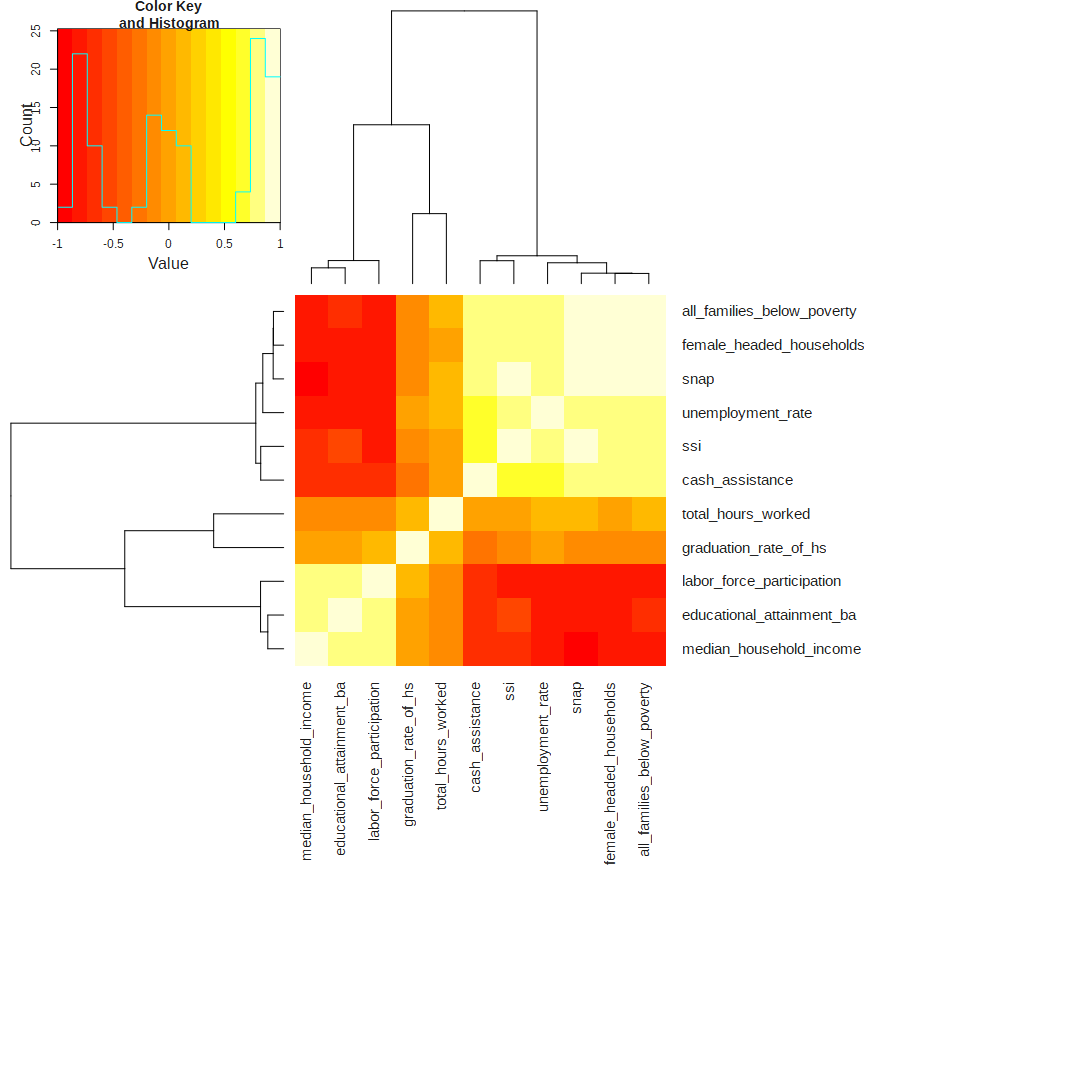
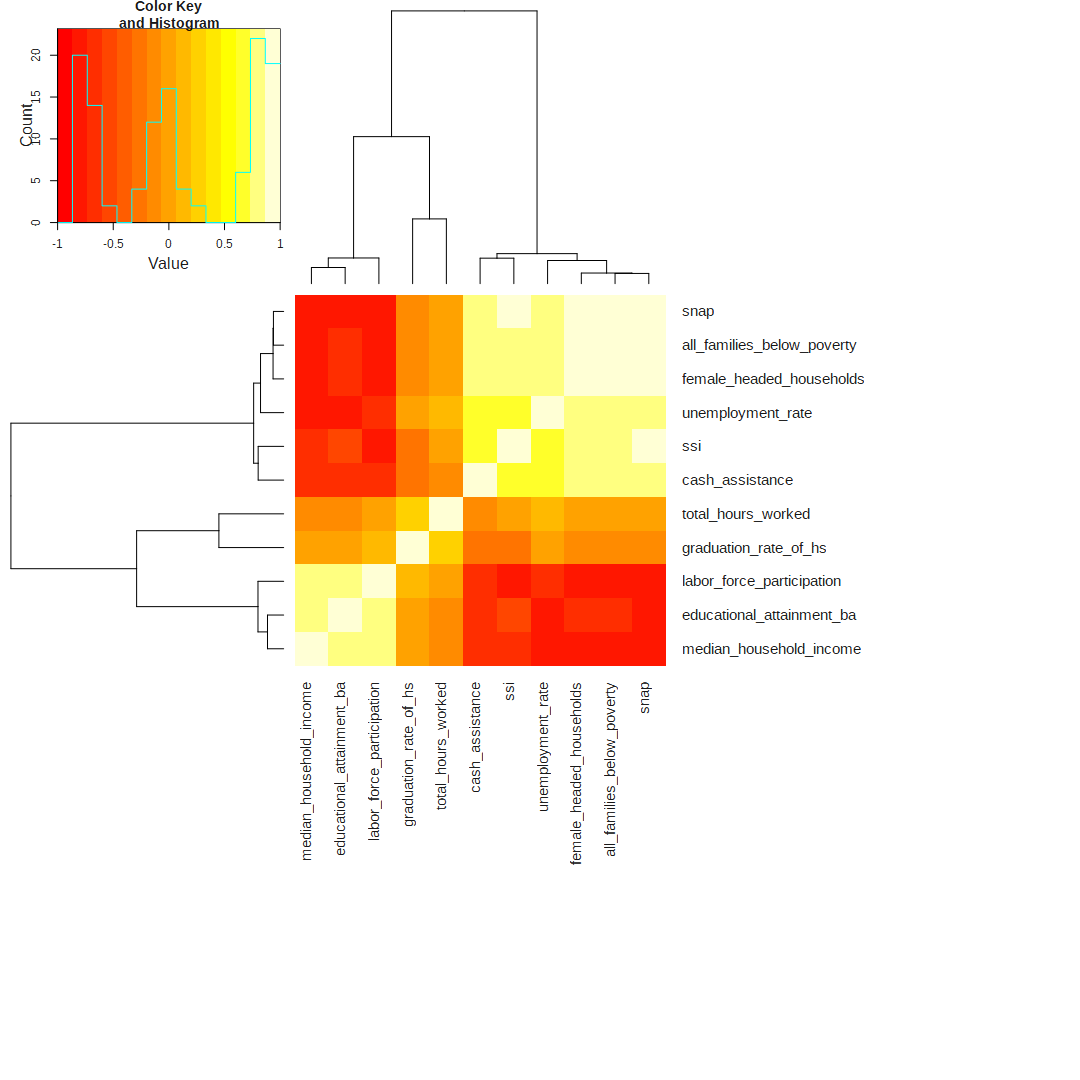
Started looking at industry impact

diff --git a/README.md b/README.md
@@ -210,18 +210,23 @@ library(gplots)
 library(bpca)
 library(RColorBrewer)
 
-dat_short = dat %>% select(intern_status, total_hours_worked,
-                           median_household_income,
-                           labor_force_participation, unemployment_rate,
-                           ssi, cash_assistance, snap,
-                           all_families_below_poverty,
-                           educational_attainment_ba, female_headed_households,
-                           graduation_rate_of_hs)
-
+# create short version of data with a subset of the fields and not including
+# the current (2014-2015) interns who haven't yet finished
+dat_short = dat %>%
+    filter(academic_year != '2014 - 2015' & industry != "") %>%
+    select(intern_status, industry, total_hours_worked,
+           median_household_income, labor_force_participation,
+           unemployment_rate, ssi, cash_assistance, snap,
+           all_families_below_poverty, educational_attainment_ba,
+           female_headed_households, graduation_rate_of_hs) %>%
+    mutate(intern_status=ifelse(intern_status %in% 
+                                c("Alumni", "Summer Program Alumni"),
+                                "Alumni", "Terminated"))
+    
 dat_short_complete = dat_short[complete.cases(dat_short),]
 
 # Heatmap
-heatmap.2(cor(as.matrix(dat_short_complete %>% select(-intern_status))),
+heatmap.2(cor(as.matrix(dat_short_complete %>% select(-intern_status, -industry))),
           margins=c(26, 26), trace='none')
 ```
 
@@ -236,7 +241,7 @@ names(location_colors) = dat$location
 location_colors_complete = location_colors[complete.cases(dat_short)]
 
 # biplot
-plot(bpca(dat_short_complete %>% select(-intern_status),
+plot(bpca(dat_short_complete %>% select(-intern_status, -industry),
           var.color=location_colors_complete, scale=TRUE))
 ```
 
@@ -264,14 +269,17 @@ dat_scaled$all_families_below_poverty = rescale(dat_scaled$all_families_below_po
 # numeric fields only
 #mat = dat_short_complete %>% select(-intern_status)
 #mat_scaled = scale(dat_short_complete)
-heatmap.2(as.matrix(dat_scaled %>% select(-intern_status)),
-          margins=c(26, 26), trace='none',
-          RowSideColors=location_colors_complete)
+heatmap.2(as.matrix(dat_scaled %>% select(-intern_status, -industry)),
+          margins=c(26, 26), trace='none')
 ```
 
 ![](README_files/figure-markdown_github/student_vis-1.png)
 
-#### Intern status
+``` r
+          #RowSideColors=location_colors_complete)
+```
+
+#### Median household income vs. Hours worked
 
 ``` r
 library(ggplot2)
@@ -280,4 +288,21 @@ ggplot(dat_short_complete, aes(total_hours_worked, median_household_income,
     geom_point(aes(color=intern_status))
 ```
 
-![](README_files/figure-markdown_github/inter_status-1.png)
+![](README_files/figure-markdown_github/household_income_vs_intern_status-1.png)
+
+#### Intern status vs. Industry
+
+``` r
+dat_short_complete %>% group_by(industry) %>% ggplot(aes(intern_status)) +
+    theme(axis.text.x = element_text(angle = 90, hjust = 1)) +
+    geom_bar() +
+    facet_wrap(~industry)
+```
+
+![](README_files/figure-markdown_github/intern_status_vs_industry-1.png)
+
+``` r
+#ggplot(dat_short_complete, aes(intern_status, total_hours_worked,
+#                               group=industry), color=industry) +
+#    geom_point(aes(color=industry))
+```
